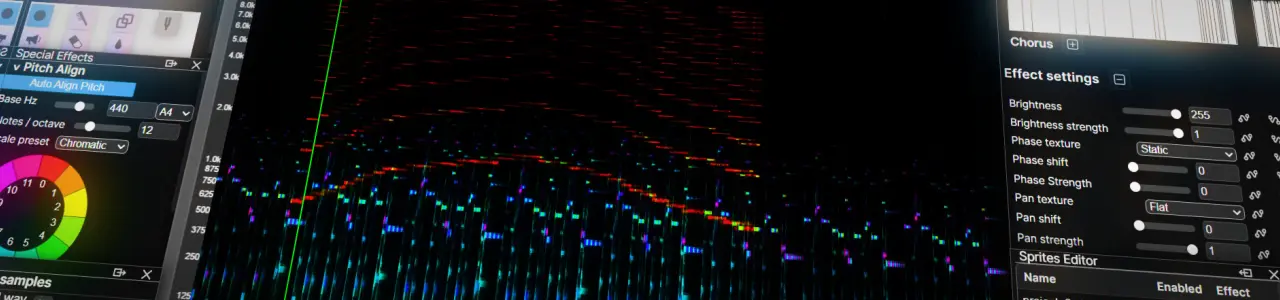
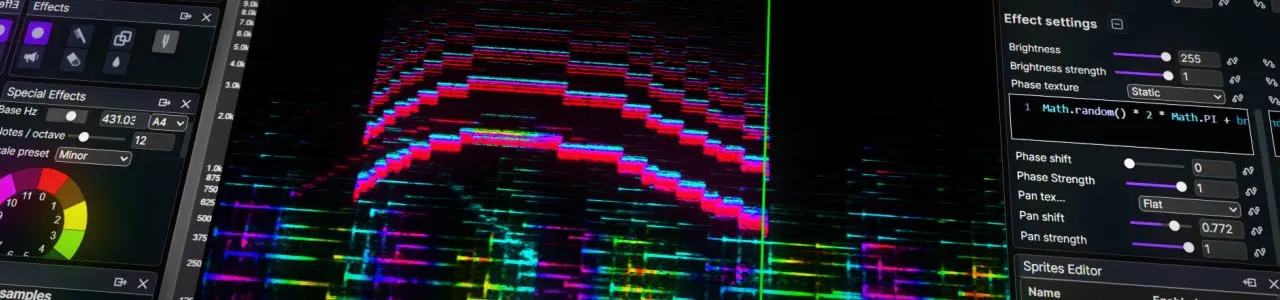
Updated SpectroDraw Pro pictures

diff --git a/docs/faq/pro-features/index.html b/docs/faq/pro-features/index.html
@@ -78,7 +78,7 @@
       -webkit-background-clip: text;background-clip:text;
       -webkit-text-fill-color: transparent;
       color: transparent;
-      text-shadow: 0 8px 30px rgba(147,51,234,0.08);
+      text-shadow: 0 8px 30px black;
     }
     .lede { color:#dbe8ff; max-width:72ch; margin:0 auto 8px; font-size:1.05rem; }
 
@@ -143,7 +143,7 @@
 
     /* subtle glow around highlighted things */
     .glow-strong{box-shadow:0 8px 50px rgba(147,51,234,0.12);border:1px solid rgba(147,51,234,0.06)}
-    .badge{display:inline-block;padding:6px 10px;border-radius:999px;background:rgba(124,92,255,0.12);color:var(--accent1);font-weight:700}
+    .badge{display:inline-block;padding:6px 10px;border-radius:999px;background:rgba(0, 0, 0, 0.8);color:var(--accent1);font-weight:700}
     pre{background:#061018;padding:12px;border-radius:8px;overflow:auto;color:#cfe3ff}
 
     /* Footer */